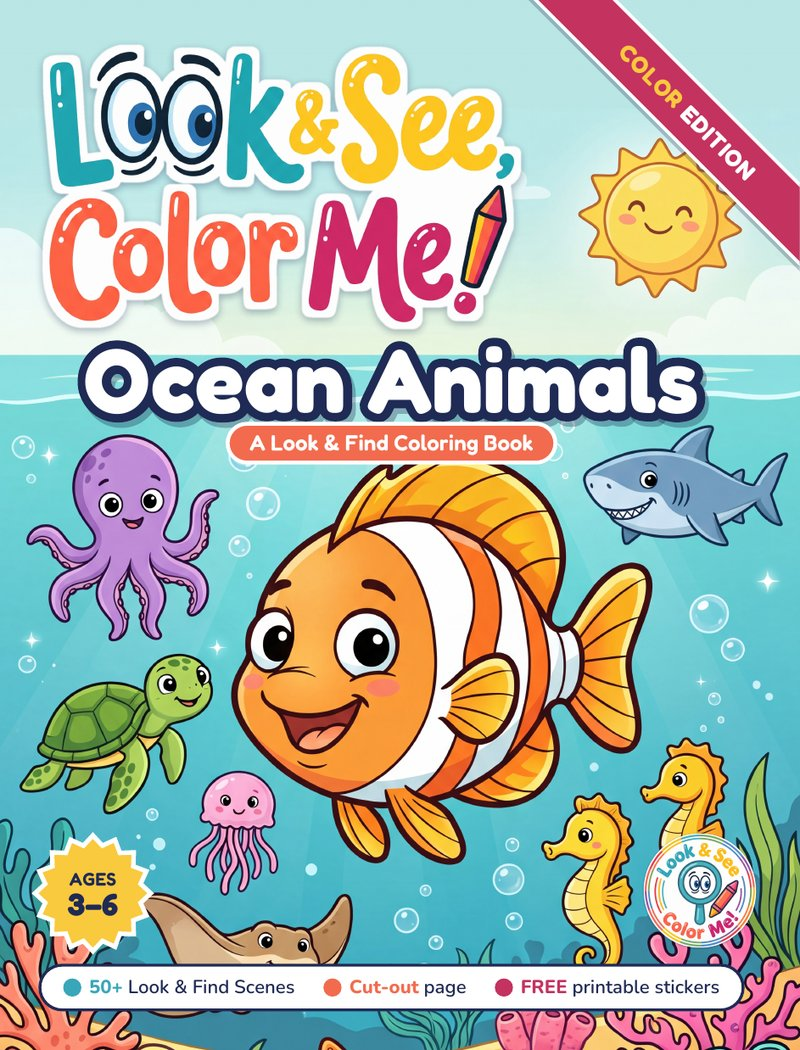
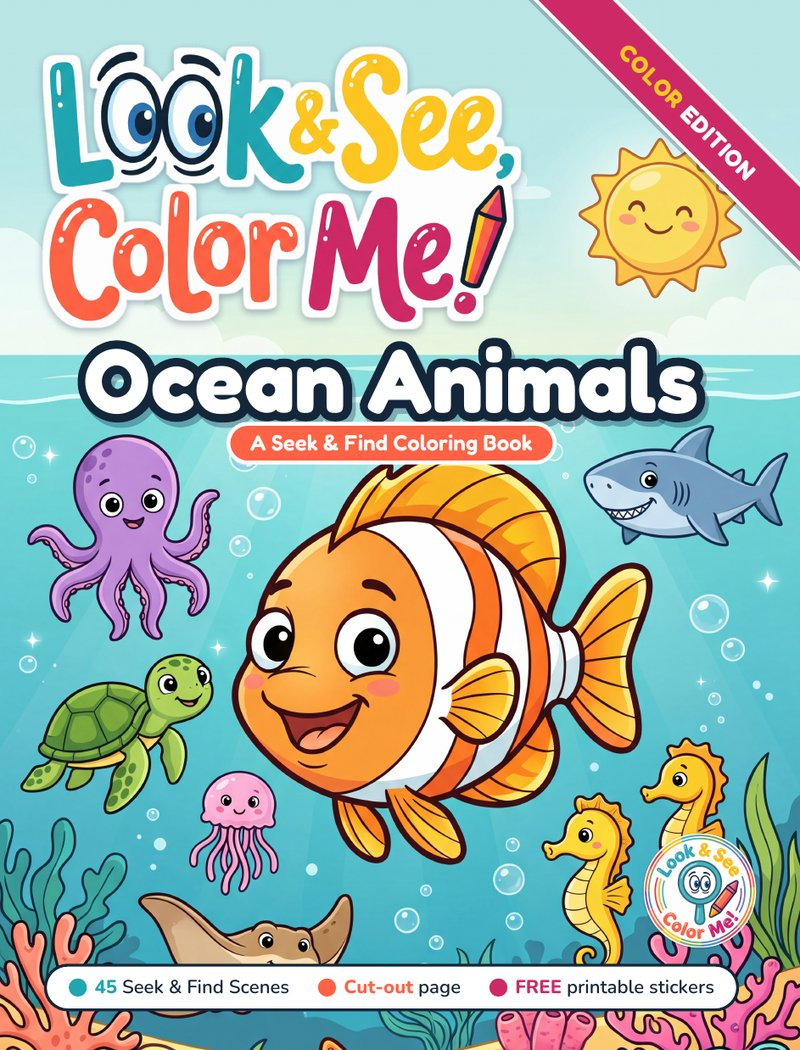
Use Seek-and-Find wording, 45 scenes, new age-free cover
Claude-Session: https://claude.ai/code/session_01FyDnNwPRdUvu7PSWpqgsap

diff --git a/index.html b/index.html
@@ -6,7 +6,7 @@
 <!--PAGE-START-->
 <title>Look & See, Color Me!</title>
 <meta name="claude:viewport-fit-sides" content="cover">
-<meta name="description" content="Free printable stickers, a gallery of little artists and new Look & Find coloring books for kids of all ages.">
+<meta name="description" content="Free printable stickers, a gallery of little artists and new Seek-and-Find coloring books for kids of all ages.">
 <meta property="og:title" content="Look & See, Color Me!">
 <meta property="og:description" content="Free stickers and coloring pages for little artists of every age.">
 <meta property="og:image" content="assets/img/logo.png">
@@ -328,7 +328,7 @@ footer a{color:#fff}
     <div class="head">
       <span class="eyebrow">The collection</span>
       <h2>Collect them all!</h2>
-      <p class="lede">Each book has 51 Look &amp; Find scenes that start simple and get trickier, from 3 big friends to find up to 6 tiny hidden friends.</p>
+      <p class="lede">Each book has 45 Seek-and-Find scenes that start simple and get trickier. Every page asks “Can You Find Me?”, from 3 big friends to spot up to 6 tiny hidden ones.</p>
     </div>
     <div class="books">
       <article class="book"><div class="cover"><img src="assets/img/cover_ocean.jpg" alt="Cover of Look &amp; See, Color Me! Ocean Animals" loading="lazy"></div><div class="meta"><span class="status out">Book 1</span><h3>Ocean Animals</h3><p>Fish, whales, octopuses and treasure under the sea.</p><a class="btn buy" href="https://www.amazon.com/s?k=Look+and+See+Color+Me+Ocean+Animals&amp;i=stripbooks" target="_blank" rel="noopener" id="buy-ocean"><svg viewBox="0 0 24 24" fill="none" stroke="currentColor" stroke-width="2.4" stroke-linecap="round" stroke-linejoin="round"><circle cx="9" cy="20" r="1.5"/><circle cx="18" cy="20" r="1.5"/><path d="M2 3h3l2.6 12.4a1 1 0 0 0 1 .8h9.7a1 1 0 0 0 1-.8L21 7H6"/></svg>Buy on Amazon</a></div></article>
@@ -355,7 +355,7 @@ footer a{color:#fff}
 <footer>
   <div class="wrap">
     <img class="ficon" src="assets/img/icon.webp" alt="Look &amp; See, Color Me! icon">
-    <p>Look &amp; Find coloring books for kids of all ages. Free printables are for personal, non-commercial use.</p>
+    <p>Seek-and-Find coloring books for kids of all ages. Free printables are for personal, non-commercial use.</p>
     <p>Instagram: <a href="https://www.instagram.com/lookandseecolorme" target="_blank" rel="noopener">@LookAndSeeColorMe</a> · <a href="privacy.html">Privacy &amp; Photo Policy</a></p>
     <p class="small" style="color:#A9B4D0">© 2026 Look &amp; See Books. All rights reserved.</p>
   </div>
